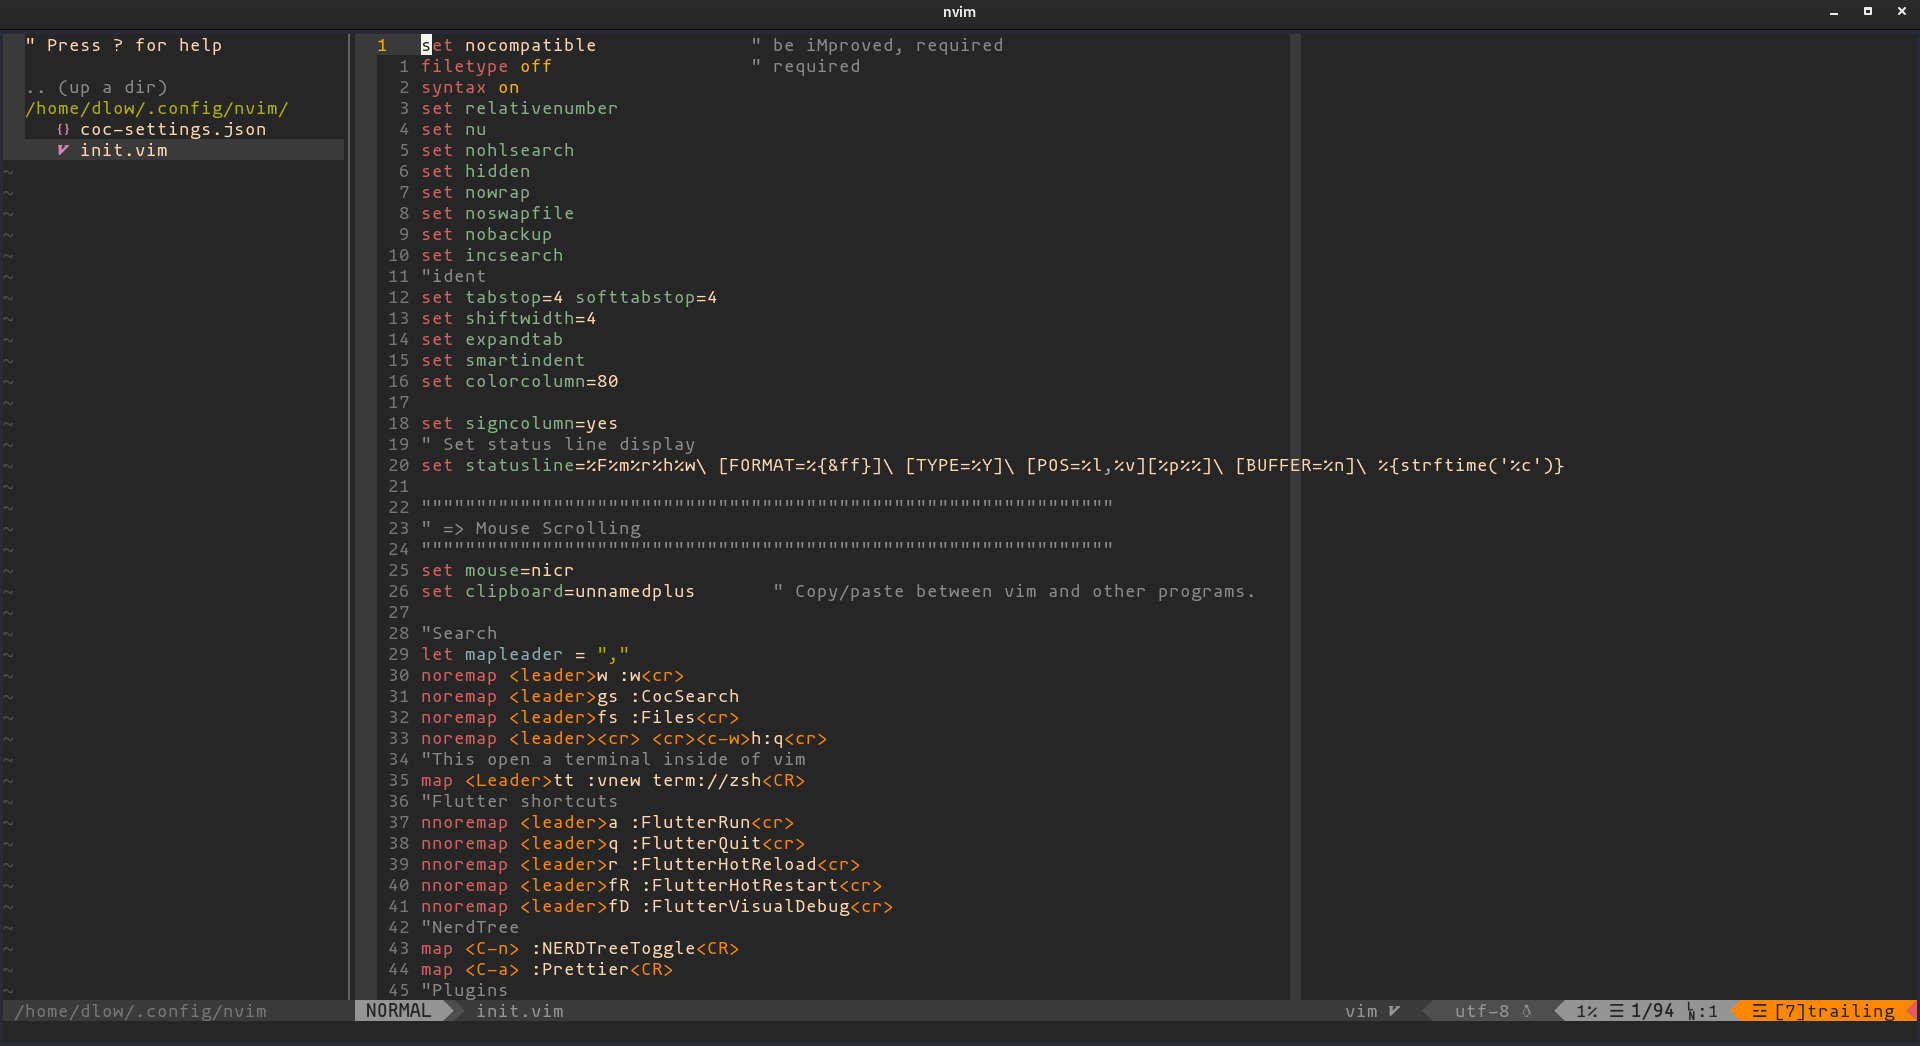
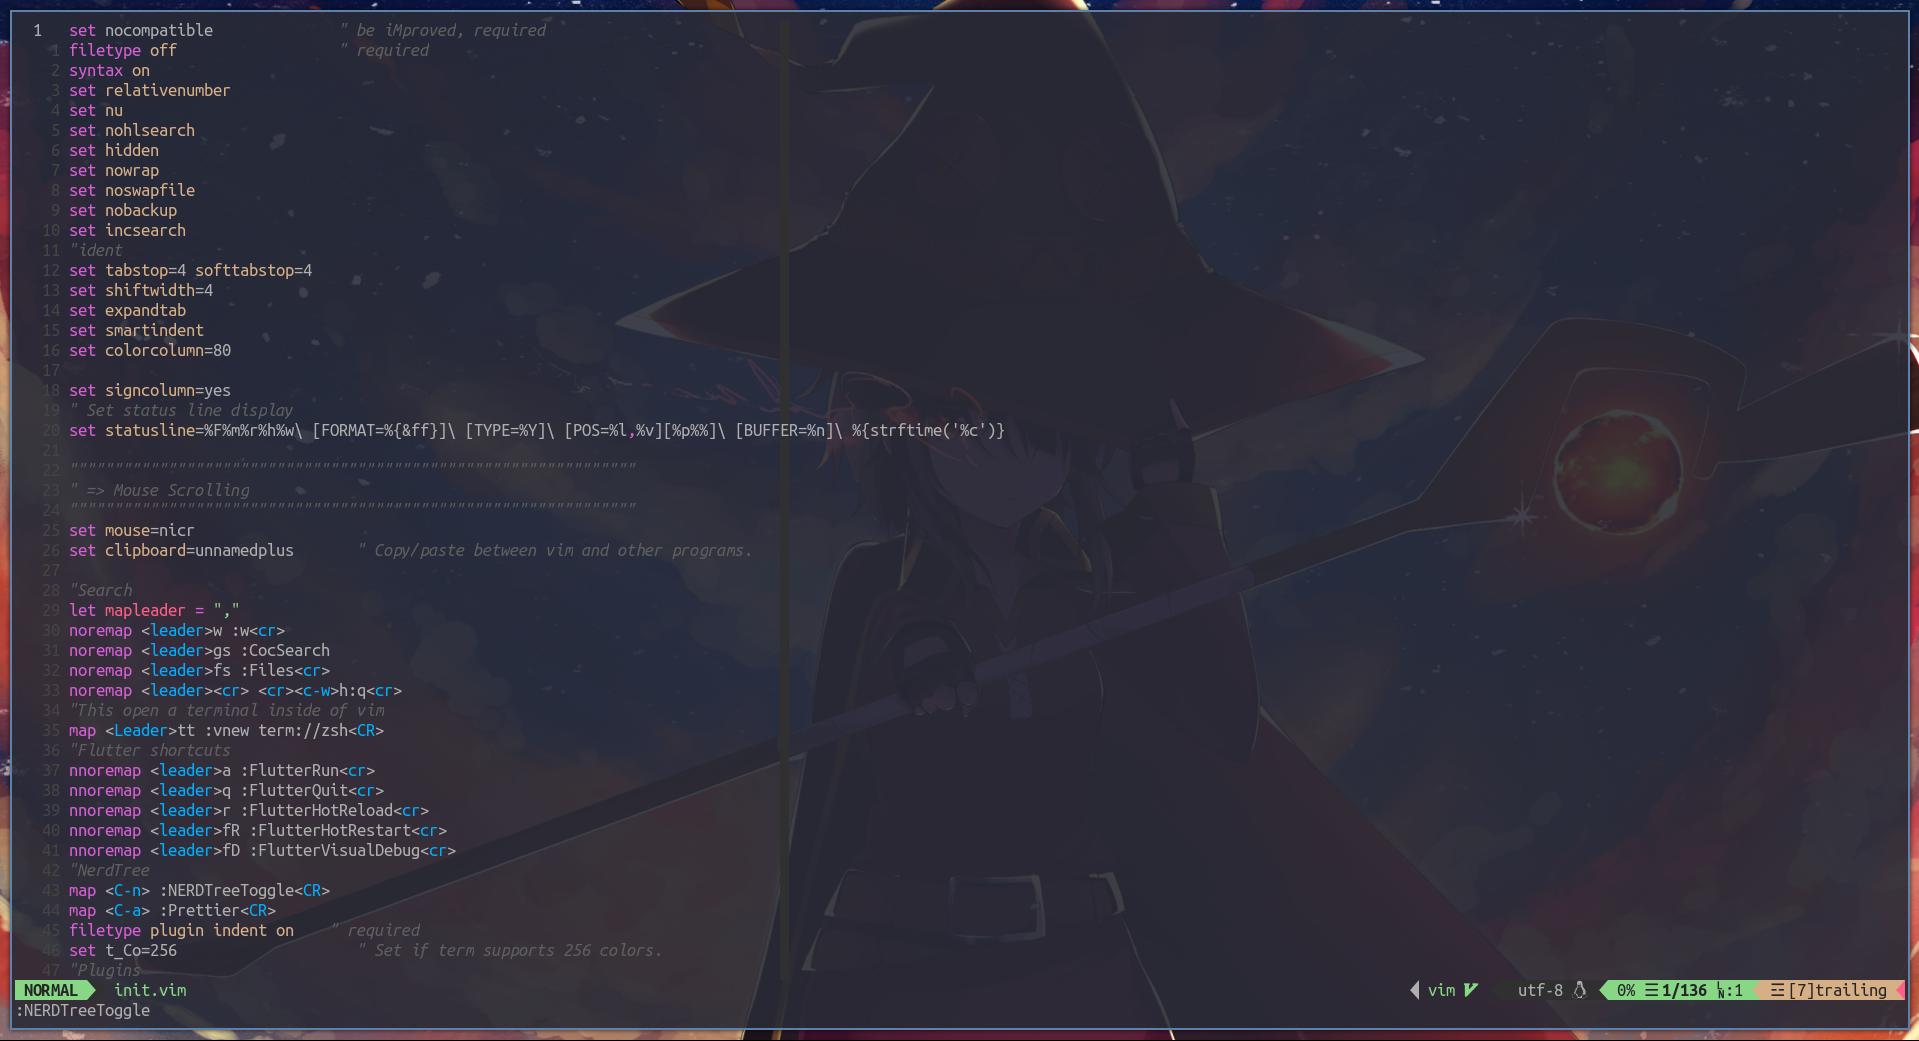
add some ss

diff --git a/README.md b/README.md
@@ -2,7 +2,9 @@
 my neovim config for python flask, php flutter javascrpit
 
 ![](./1.png)
-
+![](./2.png)
+![](./3.png)
+![](./4.png)
 ## installation
 ### Vim plug
 ```
